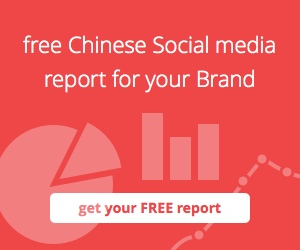
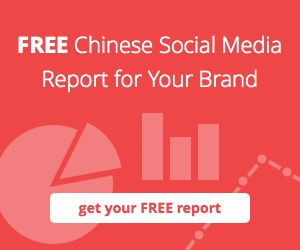
Updated ad versions to focus on FREE Report.

diff --git a/skift/README.md b/skift/README.md
@@ -19,29 +19,29 @@ http://kawo.com/travel.html?utm_source=skift&utm_medium=sponsored_post&utm_campa
 
 ##Adverts
 
-###V3 NOT FACEBOOK LEADERBOARD
+###V5 FREE REPORT LEADERBOARD BANNER
 
-![image](kawo-skift-v3-leaderboard.jpg)
-
-**Static JPEG:**  
-[skift/kawo-skift-v3-leaderboard.jpg](https://github.com/mailmangroup/display_ads/blob/master/skift/kawo-skift-v3-leaderboard.jpg)  
-
-**Tracking Link:**  
-http://kawo.com/free-report.html?utm_source=skift&utm_medium=banner&utm_content=v3_not_facebook_leaderboard&utm_campaign=100m_tourists
-
----
-###V4 BRAND POPULAR LEADERBOARD BANNER
-
-![image](kawo-skift-v4-leaderboard.jpg)
+![image](kawo-skift-v5-leaderboard.jpg)
 
 **Static JPEG:**  
-[skift/kawo-skift-v4-leaderboard.jpg](https://github.com/mailmangroup/display_ads/blob/master/skift/kawo-skift-v4-leaderboard.jpg)  
+[skift/kawo-skift-v5-leaderboard.jpg](https://github.com/mailmangroup/display_ads/blob/master/skift/kawo-skift-v5-leaderboard.jpg)  
 
 **Tracking Link:**  
-http://kawo.com/free-report.html?utm_source=skift&utm_medium=banner&utm_content=v4_brand_popular_leaderboard&utm_campaign=100m_tourists
+http://kawo.com/free-report.html?utm_source=skift&utm_medium=banner&utm_content=v5_free_report_leaderboard&utm_campaign=100m_tourists
 
 ---
-###V5 SOCIAL REPORT MEDIUM SQUARE BANNER
+###V7 FREE REPORT LEADERBOARD BANNER
+
+![image](kawo-skift-v7-leaderboard.jpg)
+
+**Static JPEG:**  
+[skift/kawo-skift-v7-leaderboard.jpg](https://github.com/mailmangroup/display_ads/blob/master/skift/kawo-skift-v7-leaderboard.jpg)  
+
+**Tracking Link:**  
+http://kawo.com/free-report.html?utm_source=skift&utm_medium=banner&utm_content=v7_free_report_leaderboard&utm_campaign=100m_tourists
+
+---
+###V5 FREE REPORT MEDIUM SQUARE BANNER
 
 ![image](kawo-skift-v5-med-sq.jpg)
 
@@ -49,15 +49,15 @@ http://kawo.com/free-report.html?utm_source=skift&utm_medium=banner&utm_content=
 [skift/kawo-skift-v5-med-sq.jpg](https://github.com/mailmangroup/display_ads/blob/master/skift/kawo-skift-v5-med-sq.jpg)  
 
 **Tracking Link:**  
-http://kawo.com/free-report.html?utm_source=skift&utm_medium=banner&utm_content=v5_social_report_medsq&utm_campaign=100m_tourists
+http://kawo.com/free-report.html?utm_source=skift&utm_medium=banner&utm_content=v5_free_report_medsq&utm_campaign=100m_tourists
 
 ---
-###V6 BRAND POPULAR MEDIUM SQUARE BANNER
+###V7 FREE REPORT MEDIUM SQUARE BANNER
 
-![image](kawo-skift-v6-med-sq.jpg)
+![image](kawo-skift-v7-med-sq.jpg)
 
 **Static JPEG:**  
-[skift/kawo-skift-v6-med-sq.jpg](https://github.com/mailmangroup/display_ads/blob/master/skift/kawo-skift-v6-med-sq.jpg)  
+[skift/kawo-skift-v7-med-sq.jpg](https://github.com/mailmangroup/display_ads/blob/master/skift/kawo-skift-v7-med-sq.jpg)  
 
 **Tracking Link:**  
-http://kawo.com/free-report.html?utm_source=skift&utm_medium=banner&utm_content=v6_brand_popular_medsq&utm_campaign=100m_tourists
+http://kawo.com/free-report.html?utm_source=skift&utm_medium=banner&utm_content=v7_free_report_medsq&utm_campaign=100m_tourists
